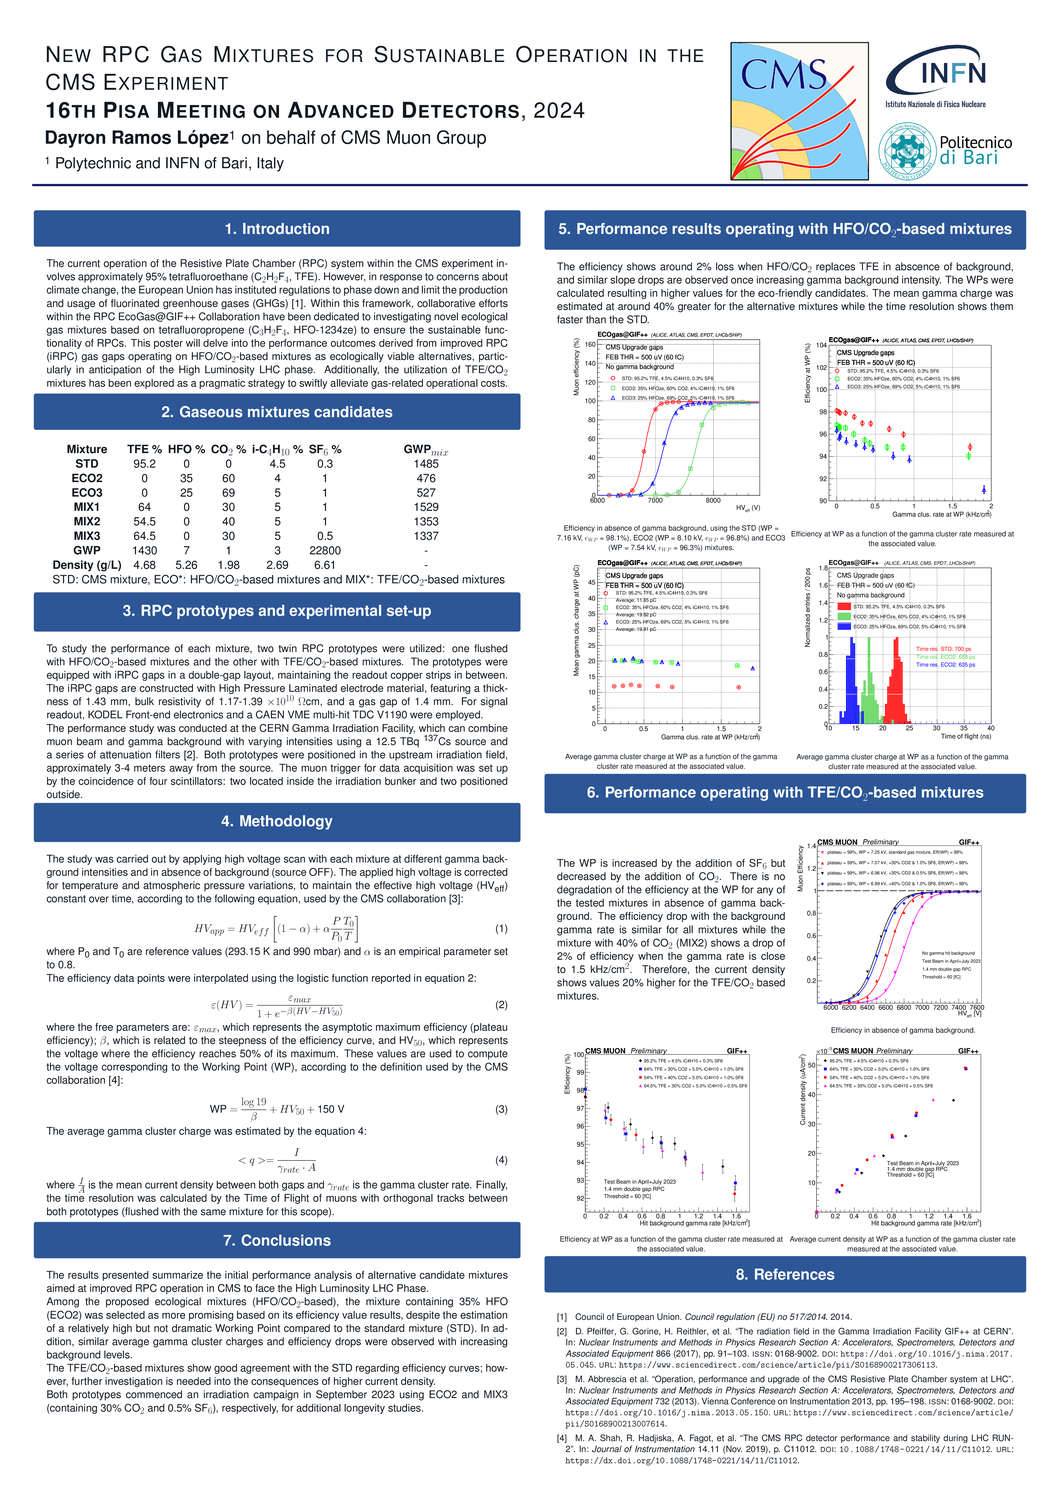
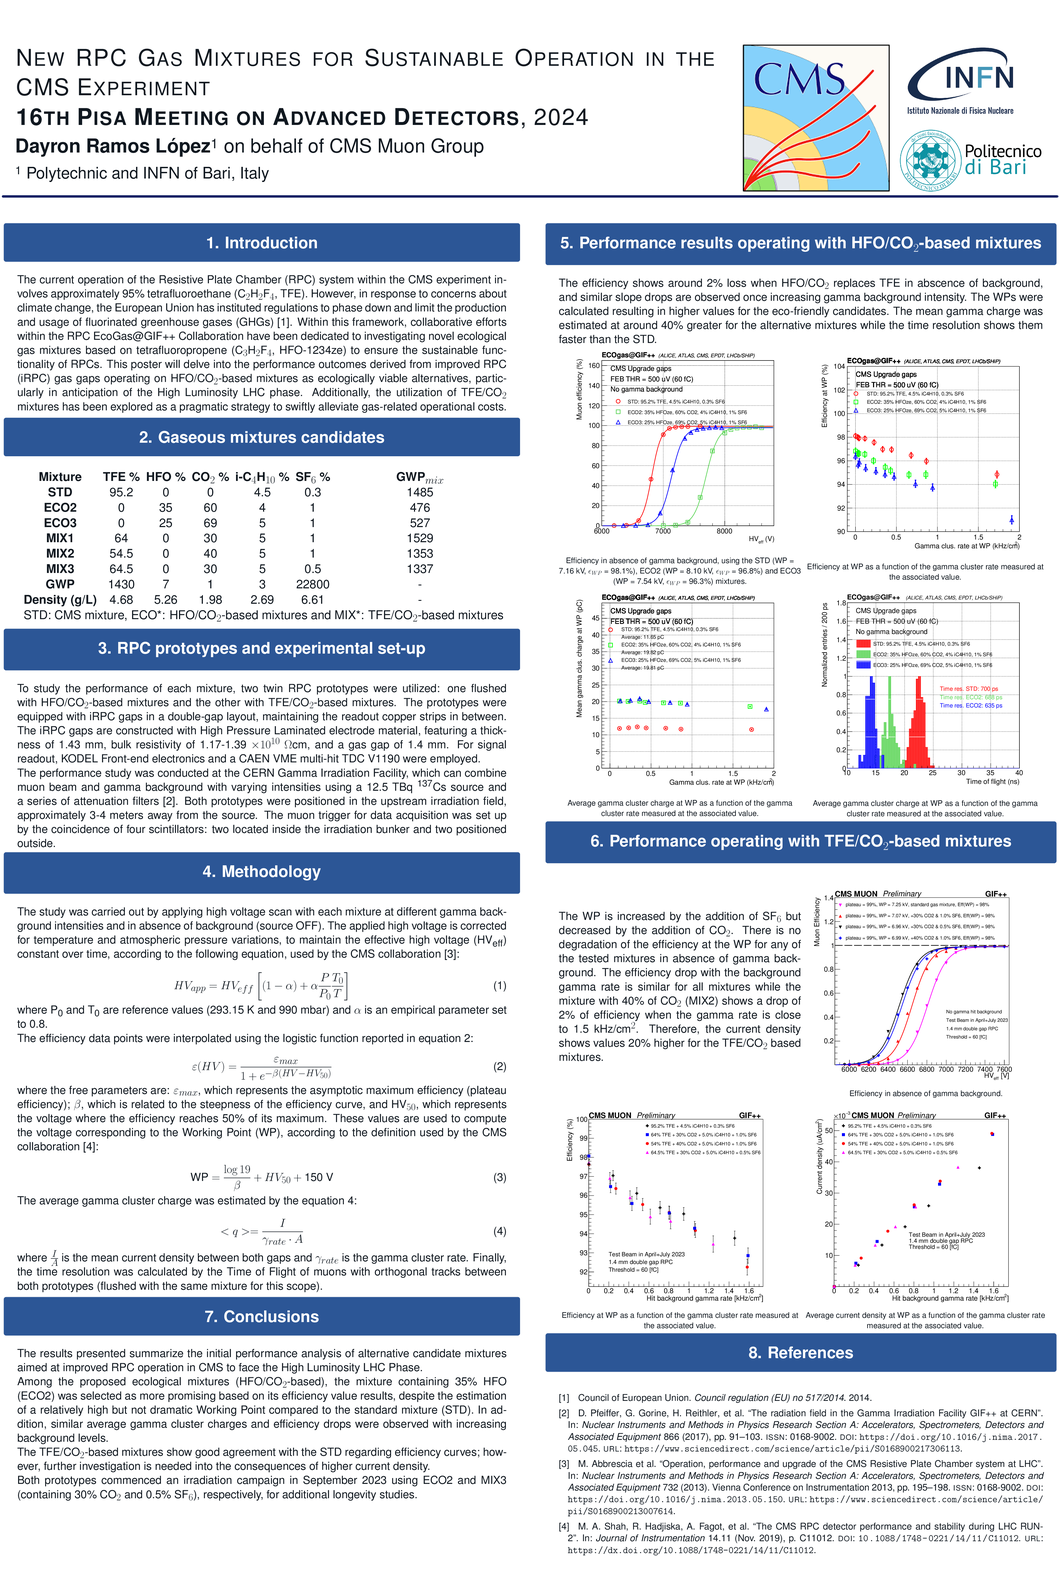
Poster 111 cropped.

Changed region(s): [[0.0, 0.0307, 1.0, 0.9826]]

diff --git a/pm2024/pm2024_raster.py b/pm2024/pm2024_raster.py
@@ -40,7 +40,7 @@ PARSER.add_argument('--autocrop', action='store_true')
 PARSER.add_argument('--overwrite', action='store_true')
 
 
-_AUTOCROP_LIST = [1, 23, 29, 60, 66, 100, 110, 114, 116, 129, 139, 184, 189, 191,
+_AUTOCROP_LIST = [1, 23, 29, 60, 66, 100, 110, 111, 114, 116, 129, 139, 184, 189, 191,
     198, 208, 211, 212, 219, 220, 224, 234, 242, 245, 256, 262, 263, 265, 287,
     290, 299, 308, 311, 316, 331, 335, 340, 369, 375, 377, 381, 389, 425, 436,
     437, 471, 479, 488]
